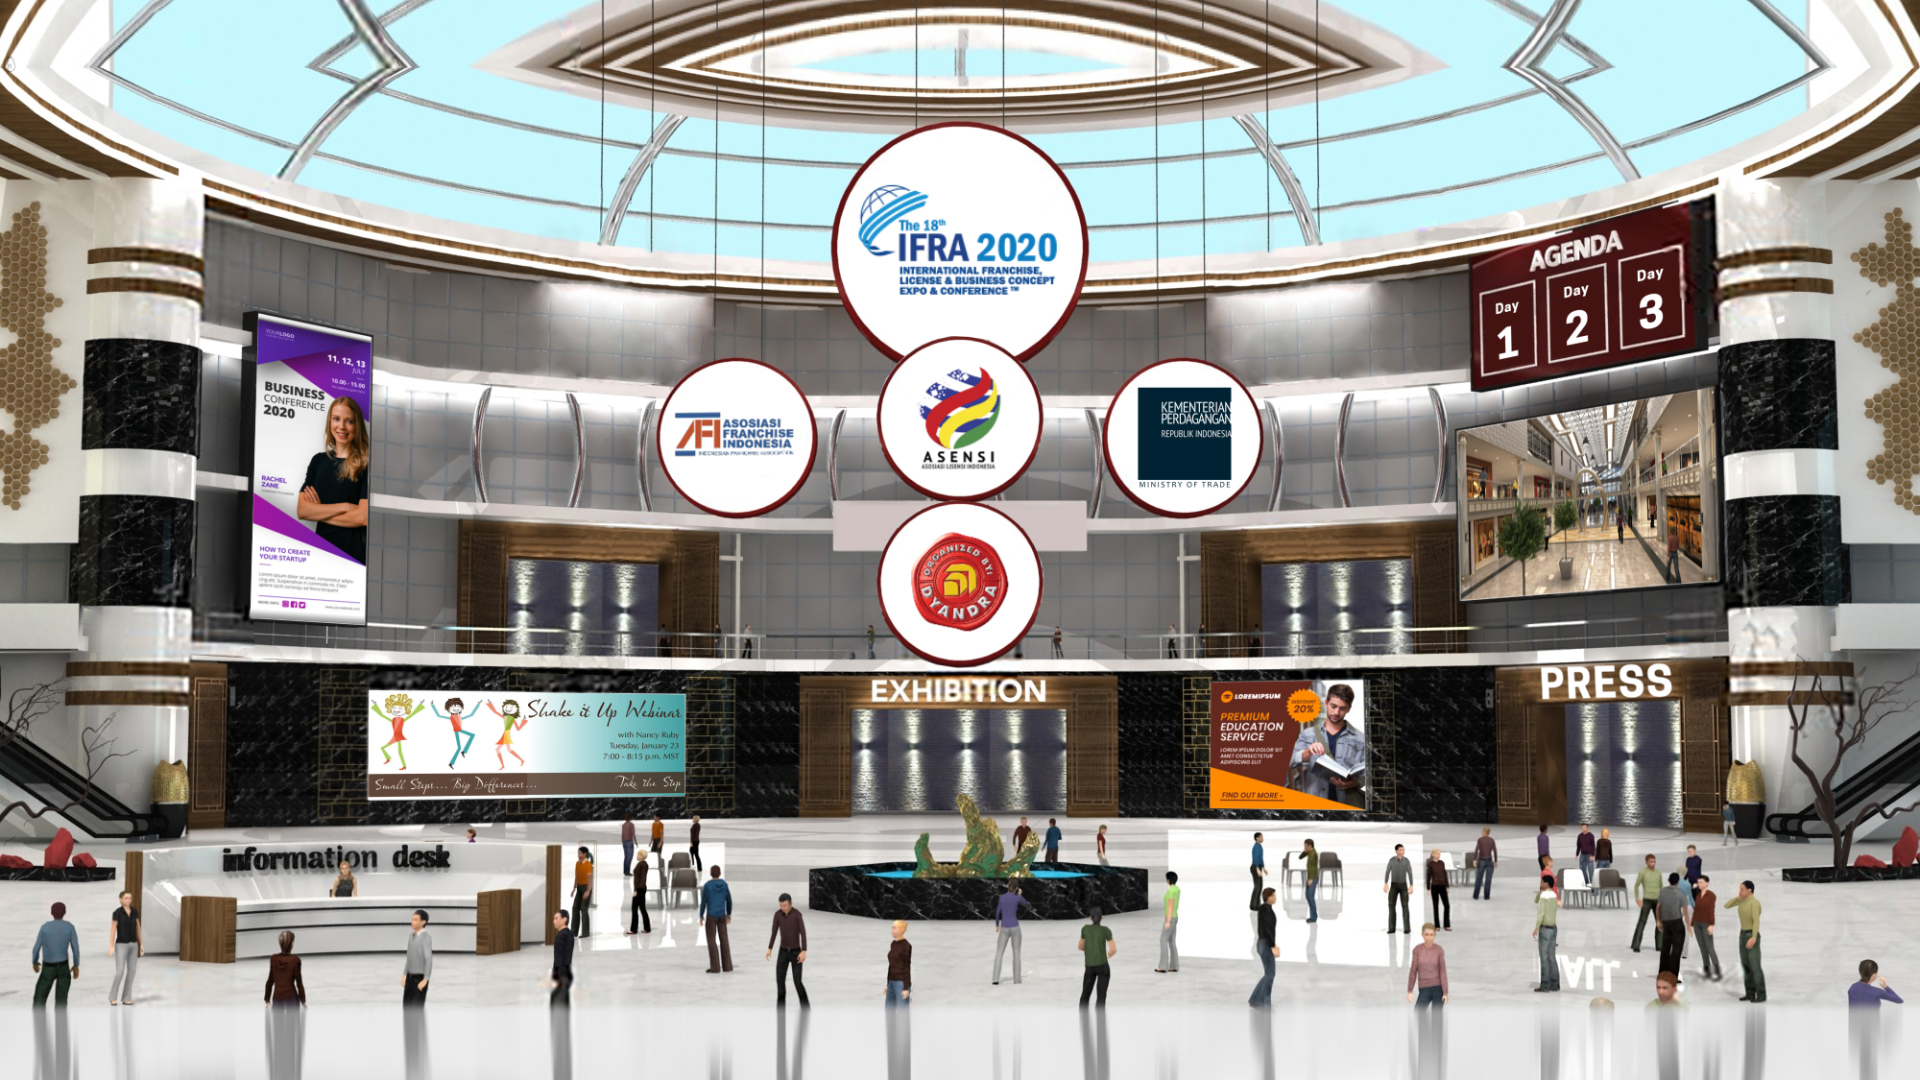
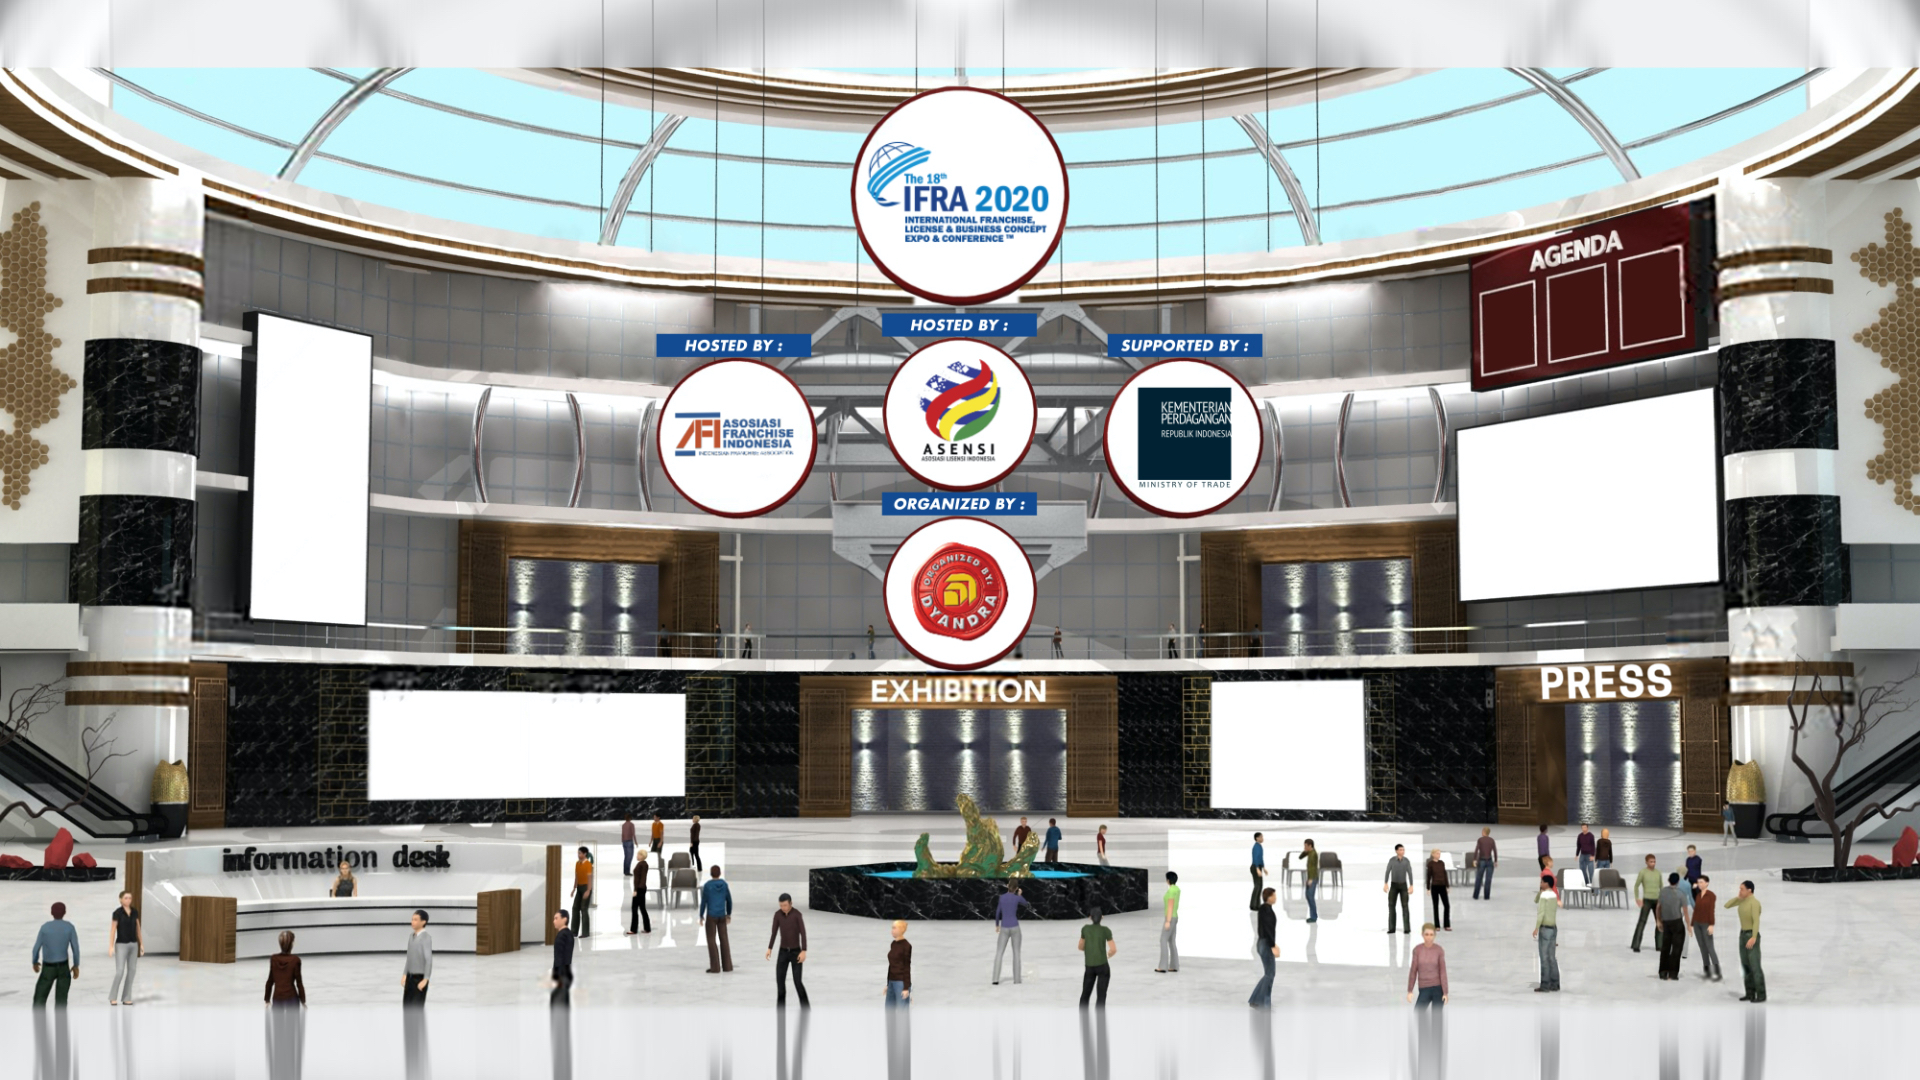
main hall & exhibition

diff --git a/pages/exhibition/index.tsx b/pages/exhibition/index.tsx
@@ -70,7 +70,7 @@ const Exhibition = () => {
       <Navbar />
 
       <div className="fixed w-screen h-screen overflow-y-scroll overflow-x-hidden">
-        <img src="/bg-exhibition.webp" alt="Exhibition Hall" className="w-full h-auto" />
+        <img src="/bg-exhibition.png" alt="Exhibition Hall" className="w-full h-auto" />
 
         <div
           className="absolute top-0"
@@ -81,9 +81,10 @@ const Exhibition = () => {
         >
           <ExhibitorCategoryButton
             action={() => _gotoExhibitorHall()}
-            left="calc(50vw - 41vw)"
+            left="calc(50vw - 32vw)"
             top="14%"
-            label="Ministry of Trade of PI Pavillion"
+            type="primary"
+            label="Chat Us"
           />
 
           <ExhibitorCategoryButton
@@ -102,16 +103,18 @@ const Exhibition = () => {
 
           <ExhibitorCategoryButton
             action={() => _gotoExhibitorHall()}
-            left="calc(50vw - 31.7vw)"
-            top="49.5%"
+            left="calc(50vw + 22vw)"
+            top="45%"
             label="Beauty, Health & SPA"
           />
 
           <ExhibitorCategoryButton
             action={() => _gotoExhibitorHall()}
-            left="calc(50vw - 23vw)"
-            top="69.3%"
-            label="Delivery Services"
+            left="calc(50vw - 30vw)"
+            top="55%"
+            type="primary"
+            size="large"
+            label="Ministry of Trade of RI Pavillion"
           />
 
           <ExhibitorCategoryButton
@@ -130,8 +133,8 @@ const Exhibition = () => {
 
           <ExhibitorCategoryButton
             action={() => _gotoExhibitorHall()}
-            left="calc(50vw - 4.5vw)"
-            top="59%"
+            left="calc(50vw - 8vw)"
+            top="51.5%"
             label="Pharmacy"
           />
 
@@ -145,14 +148,14 @@ const Exhibition = () => {
           <ExhibitorCategoryButton
             action={() => _gotoExhibitorHall()}
             left="calc(50vw - 3.5vw)"
-            top="40.5%"
-            label="Repair Services"
+            top="38%"
+            label="Delivery Services"
           />
 
           <ExhibitorCategoryButton
             action={() => _gotoExhibitorHall()}
             left="calc(50vw + 11.3vw)"
-            top="52.5%"
+            top="55%"
             label="Property"
           />
 
@@ -167,6 +170,7 @@ const Exhibition = () => {
             action={() => _gotoExhibitorHall()}
             left="calc(50vw + 17.8vw)"
             top="31%"
+            type="primary"
             label="Sponsors"
           />
 

diff --git a/pages/main-hall/index.tsx b/pages/main-hall/index.tsx
@@ -129,30 +129,10 @@ const MainHall = () => {
         >
           {/* HOTSPOTS */}
           <MainLogo onClick={_onClickLogo} />
-          <OrganiserLogo
-            onClick={_onClickLogo}
-            left="calc(50vw - 16vw)"
-            top="33.5%"
-            label="Hosted by:"
-          />
-          <OrganiserLogo
-            onClick={_onClickLogo}
-            left="calc(50vw + 7vw)"
-            top="33.5%"
-            label="Supported by:"
-          />
-          <OrganiserMiniLogo
-            onClick={_onClickLogo}
-            left="calc(50vw - 4.65vw)"
-            top="31.4%"
-            label="Hosted by:"
-          />
-          <OrganiserMiniLogo
-            onClick={_onClickLogo}
-            left="calc(50vw - 4.65vw)"
-            top="46.5%"
-            label="Organised by:"
-          />
+          <OrganiserLogo onClick={_onClickLogo} left="calc(50vw - 16vw)" top="33.5%" />
+          <OrganiserLogo onClick={_onClickLogo} left="calc(50vw + 7vw)" top="33.5%" />
+          <OrganiserMiniLogo onClick={_onClickLogo} left="calc(50vw - 4.5vw)" top="31.4%" />
+          <OrganiserMiniLogo onClick={_onClickLogo} left="calc(50vw - 4.5vw)" top="48%" />
           <Poster onClick={_onClickPoster} />
           <XBanner onClick={_onClickBanner} />
           <Wallpaper onClick={_onClickWallpaper} />

diff --git a/components/Exhibitor/ExhibitorCategoryButton.tsx b/components/Exhibitor/ExhibitorCategoryButton.tsx
@@ -2,6 +2,8 @@ type Props = {
   left: string;
   top: string;
   label: string;
+  type?: 'default' | 'primary';
+  size?: 'large' | 'default';
   action(): void;
 };
 
@@ -9,16 +11,24 @@ const ExhibitorCategoryButton = (props: Props) => {
   return (
     <div
       onClick={props.action}
-      className="absolute bg-white opacity-75 rounded-md flex items-center justify-center cursor-pointer hover:opacity-100 border-2 border-dashed border-primary"
+      className="absolute opacity-75 rounded-md flex items-center justify-center cursor-pointer hover:opacity-100 border-2 border-dashed"
       style={{
         left: props.left,
         top: props.top,
-        width: '12vw',
-        height: '5vw',
+        width: props.size === 'large' ? '15vw' : '12vw',
+        height: props.size === 'large' ? '7vw' : '5vw',
         padding: '1vw',
+        backgroundColor: props.type === 'primary' ? '#057DC1' : '#FFF',
+        borderColor: props.type === 'primary' ? '#FFF' : '#057DC1',
       }}
     >
-      <p className="text-exhibitor-category">{props.label}</p>
+      <p
+        className={
+          props.type === 'primary' ? 'text-exhibitor-category-white' : 'text-exhibitor-category'
+        }
+      >
+        {props.label}
+      </p>
     </div>
   );
 };

diff --git a/components/MainHall/OrganiserMiniLogo.tsx b/components/MainHall/OrganiserMiniLogo.tsx
@@ -2,28 +2,15 @@ type Props = {
   left: string;
   top: string;
   onClick(): void;
-  label: string;
 };
 
 const OrganiserMiniLogo = (props: Props) => {
   return (
-    <>
-      <div
-        onClick={props.onClick}
-        className="absolute rounded-full flex items-center justify-center cursor-pointer bg-white opacity-0 hover:opacity-25"
-        style={{ left: props.left, top: props.top, width: '8.3vw', height: '8.3vw' }}
-      />
-      <p
-        className="absolute text-text bg-white text-sm font-body font-bold text-center"
-        style={{
-          left: `calc(${props.left} - 1vw)`,
-          top: `calc(${props.top} - 2%)`,
-          width: '10vw',
-        }}
-      >
-        {props.label}
-      </p>
-    </>
+    <div
+      onClick={props.onClick}
+      className="absolute rounded-full flex items-center justify-center cursor-pointer bg-white opacity-0 hover:opacity-25"
+      style={{ left: props.left, top: props.top, width: '7.8vw', height: '7.8vw' }}
+    />
   );
 };
 

diff --git a/components/MainHall/OrganiserLogo.tsx b/components/MainHall/OrganiserLogo.tsx
@@ -2,29 +2,15 @@ type Props = {
   left: string;
   top: string;
   onClick: () => void;
-  label: string;
 };
 
 const OrganiserLogo = (props: Props) => {
   return (
-    <>
-      <div
-        onClick={props.onClick}
-        className="absolute rounded-full flex items-center justify-center cursor-pointer bg-white opacity-0 hover:opacity-25"
-        style={{ left: props.left, top: props.top, width: '8vw', height: '8vw' }}
-      />
-
-      <p
-        className="absolute text-white text-sm font-body font-bold text-center"
-        style={{
-          left: `calc(${props.left} - 1vw)`,
-          top: `calc(${props.top} - 3.5%)`,
-          width: '10vw',
-        }}
-      >
-        {props.label}
-      </p>
-    </>
+    <div
+      onClick={props.onClick}
+      className="absolute rounded-full flex items-center justify-center cursor-pointer bg-white opacity-0 hover:opacity-25"
+      style={{ left: props.left, top: props.top, width: '8vw', height: '8vw' }}
+    />
   );
 };
 

diff --git a/components/MainHall/MainLogo.tsx b/components/MainHall/MainLogo.tsx
@@ -8,10 +8,10 @@ const MainLogo = (props: Props) => {
       onClick={props.onClick}
       className="absolute rounded-full flex items-center justify-center cursor-pointer bg-white opacity-0 hover:opacity-25"
       style={{
-        left: 'calc(50vw - 7vw)',
-        top: '11.5%',
-        width: '13vw',
-        height: '13vw',
+        left: 'calc(50vw - 6.1vw)',
+        top: '8.1%',
+        width: '11vw',
+        height: '11vw',
       }}
     />
   );

diff --git a/styles/index.css b/styles/index.css
@@ -26,6 +26,9 @@
 .text-exhibitor-category {
   @apply text-blue_button text-sm font-body font-medium text-center;
 }
+.text-exhibitor-category-white {
+  @apply text-white text-sm font-body font-medium text-center;
+}
 
 .main-menu {
   @apply text-primary text-sm font-body font-medium;
